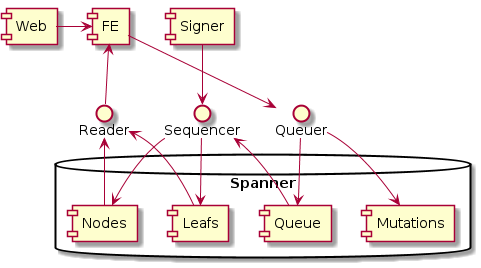
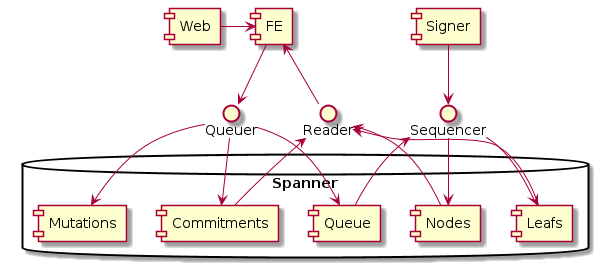
Add commitment semantics

Changed region(s): [[0.0, 0.0, 0.9979, 0.9851], [0.6861, 0.0, 0.8108, 0.209], [0.5925, 0.9552, 0.6549, 0.9851]]

diff --git a/db/memdb/mem_db.go b/db/memdb/mem_db.go
@@ -1,23 +1,41 @@
+// Copyright 2015 Google Inc. All Rights Reserved.
+//
+// Licensed under the Apache License, Version 2.0 (the "License");
+// you may not use this file except in compliance with the License.
+// You may obtain a copy of the License at
+//
+//     http://www.apache.org/licenses/LICENSE-2.0
+//
+// Unless required by applicable law or agreed to in writing, software
+// distributed under the License is distributed on an "AS IS" BASIS,
+// WITHOUT WARRANTIES OR CONDITIONS OF ANY KIND, either express or implied.
+// See the License for the specific language governing permissions and
+// limitations under the License.
 package memdb
 
 import (
 	"crypto/sha512"
 
+	"github.com/google/e2e-key-server/db"
+
 	"golang.org/x/net/context"
 )
 
 const IndexSize = sha512.Size256
+const CommitmentSize = sha512.Size256
 
 type MemDB struct {
-	queue  chan []byte
-	leaves map[[IndexSize]byte][]byte
+	queue       chan []byte
+	leaves      map[[IndexSize]byte][]byte
+	commitments map[[CommitmentSize]byte]db.Commitment
 }
 
 // Create creates a storage object from an existing db connection.
 func New() *MemDB {
 	return &MemDB{
-		queue:  make(chan []byte),
-		leaves: make(map[[IndexSize]byte][]byte),
+		queue:       make(chan []byte, 100),
+		leaves:      make(map[[IndexSize]byte][]byte),
+		commitments: make(map[[CommitmentSize]byte]db.Commitment),
 	}
 }
 
@@ -28,4 +46,12 @@ func (d *MemDB) QueueMutation(ctx context.Context, index, mutation []byte) error
 
 func (d *MemDB) Queue() <-chan []byte {
 	return d.queue
+}
+
+func (d *MemDB) WriteCommitment(ctx context.Context, commitment, key, value []byte) error {
+	var k [CommitmentSize]byte
+	copy(k[:], commitment[:CommitmentSize])
+	c := db.Commitment{key, value}
+	d.commitments[k] = c
+	return nil
 }

diff --git a/keyserver/key_server.go b/keyserver/key_server.go
@@ -132,6 +132,33 @@ func (s *Server) UpdateEntry(ctx context.Context, in *v2pb.UpdateEntryRequest) (
 	if err := s.store.WriteUpdate(ctx, e); err != nil {
 		return nil, err
 	}
+	// ---
+	index, err := s.Vuf(in.UserId)
+	if err != nil {
+		return nil, err
+	}
+	// TODO: what should the mutation be?
+	// Option A: an update to the commitment
+	m, err := proto.Marshal(in.GetSignedEntryUpdate())
+	if err != nil {
+		return nil, err
+	}
+	// Option B: an update to the particular key
+	// Update the SignedDataTypes to include the particular keys etc.
+
+	// Unmarshal entry.
+	entry := new(ctmap.Entry)
+	if err := proto.Unmarshal(in.GetSignedEntryUpdate().NewEntry, entry); err != nil {
+		return nil, grpc.Errorf(codes.Internal, "Cannot unmarshal entry")
+	}
+
+	if err := s.queue.WriteCommitment(ctx, entry.ProfileCommitment, in.CommitmentKey, in.Profile); err != nil {
+		return nil, err
+	}
+
+	if err := s.queue.QueueMutation(ctx, index, m); err != nil {
+		return nil, err
+	}
 
 	return &v2pb.UpdateEntryResponse{}, nil
 	// TODO: return proof if the entry has been added in an epoch alredy.

diff --git a/db/db.go b/db/db.go
@@ -47,6 +47,7 @@ type Queuer interface {
 	// epoch. The request may fail if this submition is a duplicate or if
 	// the mutation fails a correctness check by the mapper.
 	QueueMutation(ctx context.Context, index, mutation []byte) error
+	WriteCommitment(ctx context.Context, commitment, key, value []byte) error
 }
 
 type Node struct {
@@ -63,10 +64,19 @@ type Sequencer interface {
 	StartSequencing()
 }
 
+type Commitment struct {
+	// Commitment key
+	Key []byte
+	// Commitment value
+	Data []byte
+}
+
 // Reader reads values from the sparse tree.
 type MapReader interface {
 	ReadLeaf(ctx context.Context, index []byte) ([]byte, error)
 	ReadPath(ctx context.Context, index []byte) ([][]byte, error)
+	// ReadAssoc retrieves private data associated with the leaf.
+	ReadCommitment(ctx context.Context, index []byte) (Commitment, error)
 }
 
 // Mutator verifies mutations and transforms values in the map.
